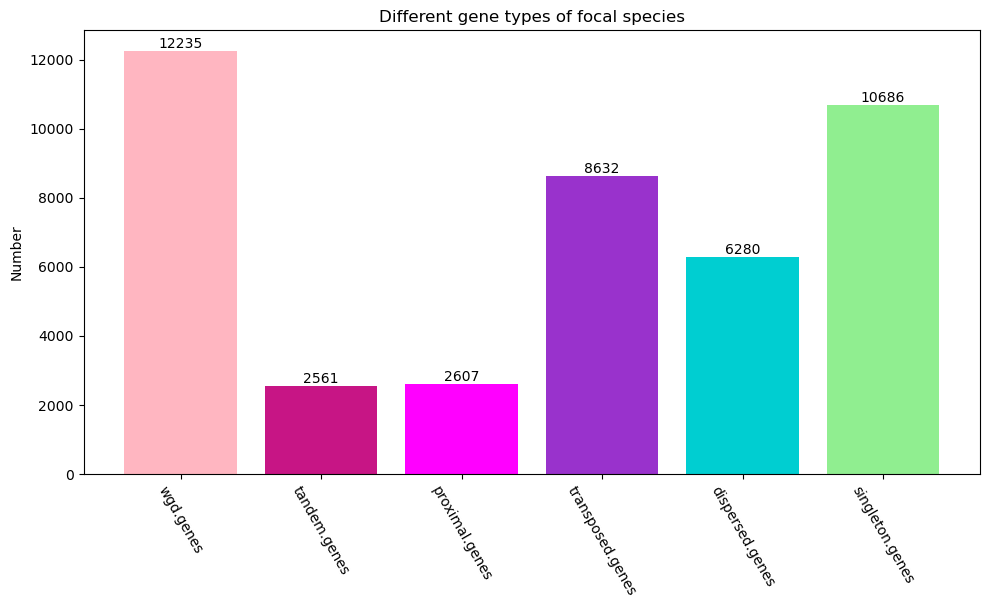
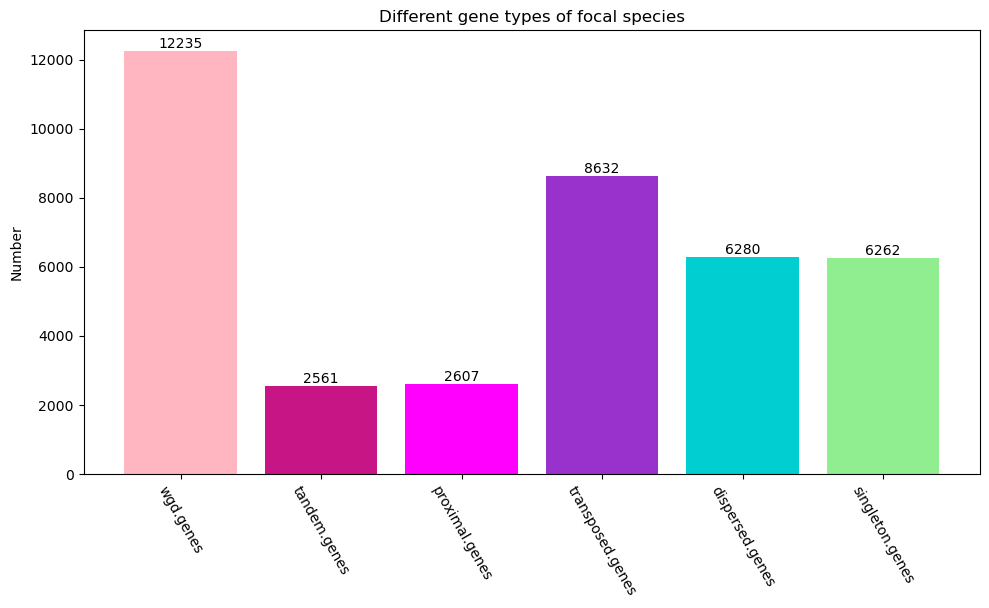
modify singleton code

Changed region(s): [[0.819, 0.1562, 0.9707, 0.4375]]

diff --git a/quota_anchor/lib/classification_gene.py b/quota_anchor/lib/classification_gene.py
@@ -160,25 +160,6 @@ def read_blast_gff(blast, gff):
                                   chromosome_gene_dict[gene_name_chr_dict[qseqid]][qseqid].strand, bitscore, pident])
     return data_info
 
-def read_gff_get_gene(gff):
-    gene_to_chr = dict()
-    gene_to_start = dict()
-    gene_lt = set()
-    with open(gff) as f:
-        for line in f:
-            m = re.search('^#', line)
-            if m is None:
-                m = re.search(r'^(\S+)\t(\S+)\tgene\t(\d+)\t+(\d+)\t+(\S+)\t+(\S+)\t+(\S+)\t+.*ID=([\s\S]+?);(\S+)', line)
-                if m is not None:
-                    chr_ = str(m.group(1))
-                    start = int(m.group(4))
-                    gn_name = str(m.group(8))
-                    gene_lt.add(gn_name)
-                    gene_to_chr[gn_name] = str(chr_)
-                    gene_to_start[gn_name] = int(start)
-    return gene_to_chr, gene_to_start, gene_lt
-
-
 def sort_key(col):
     return col.str.split("-").map(lambda x: (x[1], int(x[2])))
 
@@ -521,20 +502,23 @@ class ClassGene:
     @staticmethod
     def singleton(gff, homo_gn_md, out_file, output_prefix):
         logger.info('Identify singleton genes start.')
-        gene_to_chr, gene_to_start, gene_set = read_gff_get_gene(gff)
+        chr_gene_dict, chr_gene_list, _, _ = GffFile.readGff(gff)
 
         ot_file = open(out_file, 'w')
         ot_file.write("GeneId" + "\t" + "Location" + "\n")
-        loop_times = len(gene_set)
+        loop_times = sum(map(lambda ary: ary.shape[0], chr_gene_list.values()))
         singleton_number = 0
         dt = datetime.datetime.now()
         time_now = dt.strftime('%Y/%m/%d %H:%M:%S')
         with alive_bar(loop_times, title=f"[{time_now} INFO]", bar="bubbles", spinner="waves") as bar:
-            for gn_name in gene_set:
-                if gn_name not in homo_gn_md:
-                    ot_file.write(str(gn_name) + "\t" + output_prefix + "-" + str(gene_to_chr[gn_name]) + "-" + str(gene_to_start[gn_name]) + "\n")
-                    singleton_number += 1
-                bar()
+            for ch in chr_gene_list:
+                order = 1
+                for gn in chr_gene_list[ch]:
+                    if gn.name not in homo_gn_md:
+                        ot_file.write(str(gn.name) + "\t" + output_prefix + "-" + str(ch) + "-"  + str(order) + "-" + str(chr_gene_dict[ch][gn.name].start) + "\n")
+                        singleton_number += 1
+                    order += 1
+                    bar()
         ot_file.close()
         return singleton_number
 
@@ -962,20 +946,23 @@ class ClassGeneUnique:
     @staticmethod
     def singleton(gff, homo_gn_md, out_file, output_prefix):
         logger.info('Identify singleton genes start.')
-        gene_to_chr, gene_to_start, gene_set = read_gff_get_gene(gff)
+        chr_gene_dict, chr_gene_list, _, _ = GffFile.readGff(gff)
 
         ot_file = open(out_file, 'w')
         ot_file.write("GeneId" + "\t" + "Location" + "\n")
-        loop_times = len(gene_set)
+        loop_times = sum(map(lambda ary: ary.shape[0], chr_gene_list.values()))
         singleton_number = 0
         dt = datetime.datetime.now()
         time_now = dt.strftime('%Y/%m/%d %H:%M:%S')
         with alive_bar(loop_times, title=f"[{time_now} INFO]", bar="bubbles", spinner="waves") as bar:
-            for gn_name in gene_set:
-                if gn_name not in homo_gn_md:
-                    ot_file.write(str(gn_name) + "\t" + output_prefix + "-" + str(gene_to_chr[gn_name]) + "-" + str(gene_to_start[gn_name]) + "\n")
-                    singleton_number += 1
-                bar()
+            for ch in chr_gene_list:
+                order = 1
+                for gn in chr_gene_list[ch]:
+                    if gn.name not in homo_gn_md:
+                        ot_file.write(str(gn.name) + "\t" + output_prefix + "-" + str(ch) + "-"  + str(order) + "-" + str(chr_gene_dict[ch][gn.name].start) + "\n")
+                        singleton_number += 1
+                    order += 1
+                    bar()
         ot_file.close()
         return singleton_number
 
